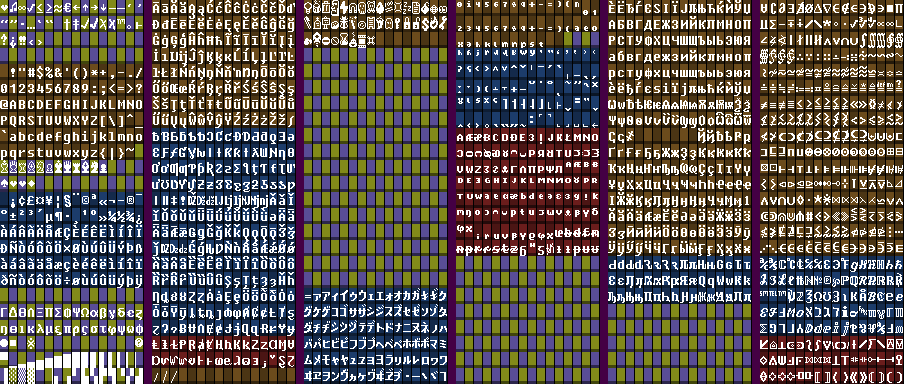
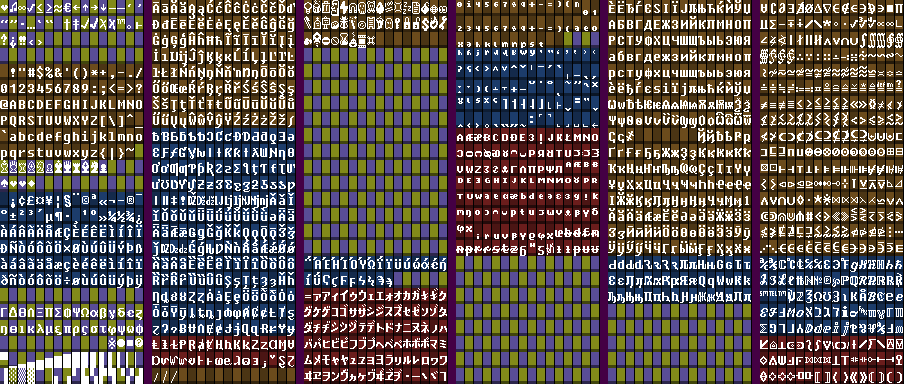
Add some missing Greek letters and some homoglyphs. A little bit of tweaking. Added light version of Katakana in FixederSysLight2x.
git-svn-id: file:///home/runner/work/tom7misc-sync-action/tom7misc-sync-action/upstream/trunk@6853 c7e11af0-4c7a-11f1-9edd-117cb6f09d55

Changed region(s): [[0.3097, 0.6562, 0.4956, 1.0], [0.1239, 0.875, 0.1549, 0.9062], [0.0, 0.875, 0.031, 0.9062]]

diff --git a/bit7/font-image.cc b/bit7/font-image.cc
@@ -232,16 +232,15 @@ static PageInfo PageBit7Classic() {
     // mathematical phi symbol (closed)
     0x03D5,
 
-    // This was once some basic math symbols, but I moved them
-    // to the proper unicode page.
-    // Black circle, black square
-    0x25CF,
-    0x25A0,
-    // geometric shapes and bullets, unclaimed
-    -1,
-    0x203B, // reference mark
+    // TODO: More greeks
+    -1, -1, -1, -1,
     // cont'd
-    -1, -1, -1, -1, -1, -1, -1, -1, -1, -1, -1,
+    -1, -1, -1, -1, -1, -1, -1, -1,
+
+    // reference mark,
+    0x203B,
+    // Black circle, black square
+    0x25CF, 0x25A0,
     // <?> replacement char
     0xFFFD,
 
@@ -675,6 +674,7 @@ static PageInfo PageBit7Extended() {
 
   info.sections = {
     {0, 16 * 3},
+    {16 * 16, 2 * 16 - 6},
     {18 * 16, 6 * 16},
   };
 
@@ -793,8 +793,45 @@ static PageInfo PageBit7Extended() {
     -1, -1, -1, -1, -1, -1, -1, -1, -1, -1, -1, -1, -1, -1, -1, -1,
     -1, -1, -1, -1, -1, -1, -1, -1, -1, -1, -1, -1, -1, -1, -1, -1,
     -1, -1, -1, -1, -1, -1, -1, -1, -1, -1, -1, -1, -1, -1, -1, -1,
-    -1, -1, -1, -1, -1, -1, -1, -1, -1, -1, -1, -1, -1, -1, -1, -1,
-    -1, -1, -1, -1, -1, -1, -1, -1, -1, -1, -1, -1, -1, -1, -1, -1,
+
+    // Two rows for Greek Extended (custom mapping)
+    0x0385,  // (΅) GREEK DIALYTIKA TONOS
+    0x0386,  // (Ά) GREEK CAPITAL LETTER ALPHA WITH TONOS
+    0x0388,  // (Έ) GREEK CAPITAL LETTER EPSILON WITH TONOS
+    0x0389,  // (Ή) GREEK CAPITAL LETTER ETA WITH TONOS
+    0x038A,  // (Ί) GREEK CAPITAL LETTER IOTA WITH TONOS
+    0x038C,  // (Ό) GREEK CAPITAL LETTER OMICRON WITH TONOS
+    0x038E,  // (Ύ) GREEK CAPITAL LETTER UPSILON WITH TONOS
+    0x038F,  // (Ώ) GREEK CAPITAL LETTER OMEGA WITH TONOS
+    0x0390,  // (ΐ) GREEK SMALL LETTER IOTA WITH DIALYTIKA AND TONOS
+    0x03CA,  // (ϊ) GREEK SMALL LETTER IOTA WITH DIALYTIKA
+    0x03CB,  // (ϋ) GREEK SMALL LETTER UPSILON WITH DIALYTIKA
+    0x03CD,  // (ύ) GREEK SMALL LETTER UPSILON WITH TONOS
+    0x03CE,  // (ώ) GREEK SMALL LETTER OMEGA WITH TONOS
+    0x03AC,  // (ά) GREEK SMALL LETTER ALPHA WITH TONOS
+    0x03AD,  // (έ) GREEK SMALL LETTER EPSILON WITH TONOS
+    0x03AE,  // (ή) GREEK SMALL LETTER ETA WITH TONOS
+
+    0x03AF,  // (ί) GREEK SMALL LETTER IOTA WITH TONOS
+    0x03B0,  // (ΰ) GREEK SMALL LETTER UPSILON WITH DIALYTIKA AND TONOS
+    0x03DA,  // (Ϛ) GREEK LETTER STIGMA
+    0x03DB,  // (ϛ) GREEK SMALL LETTER STIGMA
+    0x03DC,  // (Ϝ) GREEK LETTER DIGAMMA
+    0x03DD,  // (ϝ) GREEK SMALL LETTER DIGAMMA
+    // Note that because the lowercase koppa was introduced
+    // later, lots of text uses 03DE as the numeral.
+    // Modern practice is to make the glyphs look different
+    // but for the first to still make sense in a numeral
+    // context (since that is the main way it actually
+    // appears).
+    0x03DE,  // (Ϟ) GREEK LETTER KOPPA
+    0x03DF,  // (ϟ) GREEK SMALL LETTER KOPPA
+    // Similar...
+    0x03E0,  // (Ϡ) GREEK LETTER SAMPI
+    0x03E1,  // (ϡ) GREEK SMALL LETTER SAMPI
+
+    // Space for more Greek Extended
+    -1, -1, -1, -1, -1, -1,
 
     // Unicode Katakana
     // 96 characters in unicode order, U+30A0 to U+30FF.
@@ -2036,12 +2073,23 @@ REUSE_FOR = {
   {'o', 0x03BF},
   {'u', 0x03C5},
   {'x', 0x03C7},
+  {'j', 0x03F3},
 
   // Coptic homoglyphs
   {'C', 0x2CA4},
   {'c', 0x2CA5},
   {'O', 0x2C9E},
   {'o', 0x2C9F},
+
+  // Greek numeral sign is "based on" modifier letter prime.
+  {0x02B9, 0x0374},
+  // Similarly, Greek tonos is an accute accent.
+  {0x02CA, 0x0384},
+  {0x00B7, 0x0387},  // middle dot -> ano teleia
+
+  // Modifier Letters remapped to standalone accents
+  {0x02CA, 0x00B4},  // acute accent
+  {0x02CB, 0x0060},  // grave
 
   // Full-width comma
   {',', 0xFF0C},
@@ -2058,16 +2106,23 @@ REUSE_FOR = {
   {0x03A0, 0x220F},  // Pi -> Product
   {0x03A3, 0x2211},  // Sigma -> Sum
 
+  // Greek -> Latin
+  {0x03D5, 0x0278},  // closed phi
+  {0x03B2, 0xA7B5},  // beta
+  {0x03C9, 0xA7B7},  // small omega
+  {0x03A9, 0xA7B6},  // capital omega
+  {0x03B3, 0x0263},  // gamma
+  {0x03B9, 0x0269},  // iota
+  {0x03BB, 0xA7DB},  // lambda
+
+  // Latin Ext A -> Greek
+  {0x0178, 0x03AB},  // Ÿ
+  {0x00CF, 0x03AA},  // Ï
+  {0x00F3, 0x03CC},  // ó
+
   // "Prohibited sign" is identical to "No entry sign" but
   // black instead of red.
   {0x1F6AB, 0x1F6C7},
-
-  // Kelvin symbol
-  {'K', 0x212A},
-  // Ohm symbol from greek Omega
-  {0x03A9, 0x2126},
-  // "micro" symbol from greek mu
-  {0x03BC, 0x00B5},
 
   // ISO Latin-1 Macron to overline
   {0x00AF, 0x203E},
@@ -2101,12 +2156,14 @@ REUSE_FOR = {
   {0x22c6, 0x2605},
 
   // Letter-like symbols that are REALLY letter-like.
-  // Kelvin
+  // Kelvin symbol
   {'K', 0x212A},
+  // Ohm symbol from greek Omega
+  {0x03A9, 0x2126},
+  // "micro" symbol from greek mu
+  {0x03BC, 0x00B5},
   // A with circle -> Angstrom
   {0x00C5, 0x212B},
-  // Omega -> Ohm sign
-  {0x03A9, 0x2126},
   // Hebrew letters
   {0x05D0, 0x2135},  // Alef
   {0x05D1, 0x2136},  // Bet
